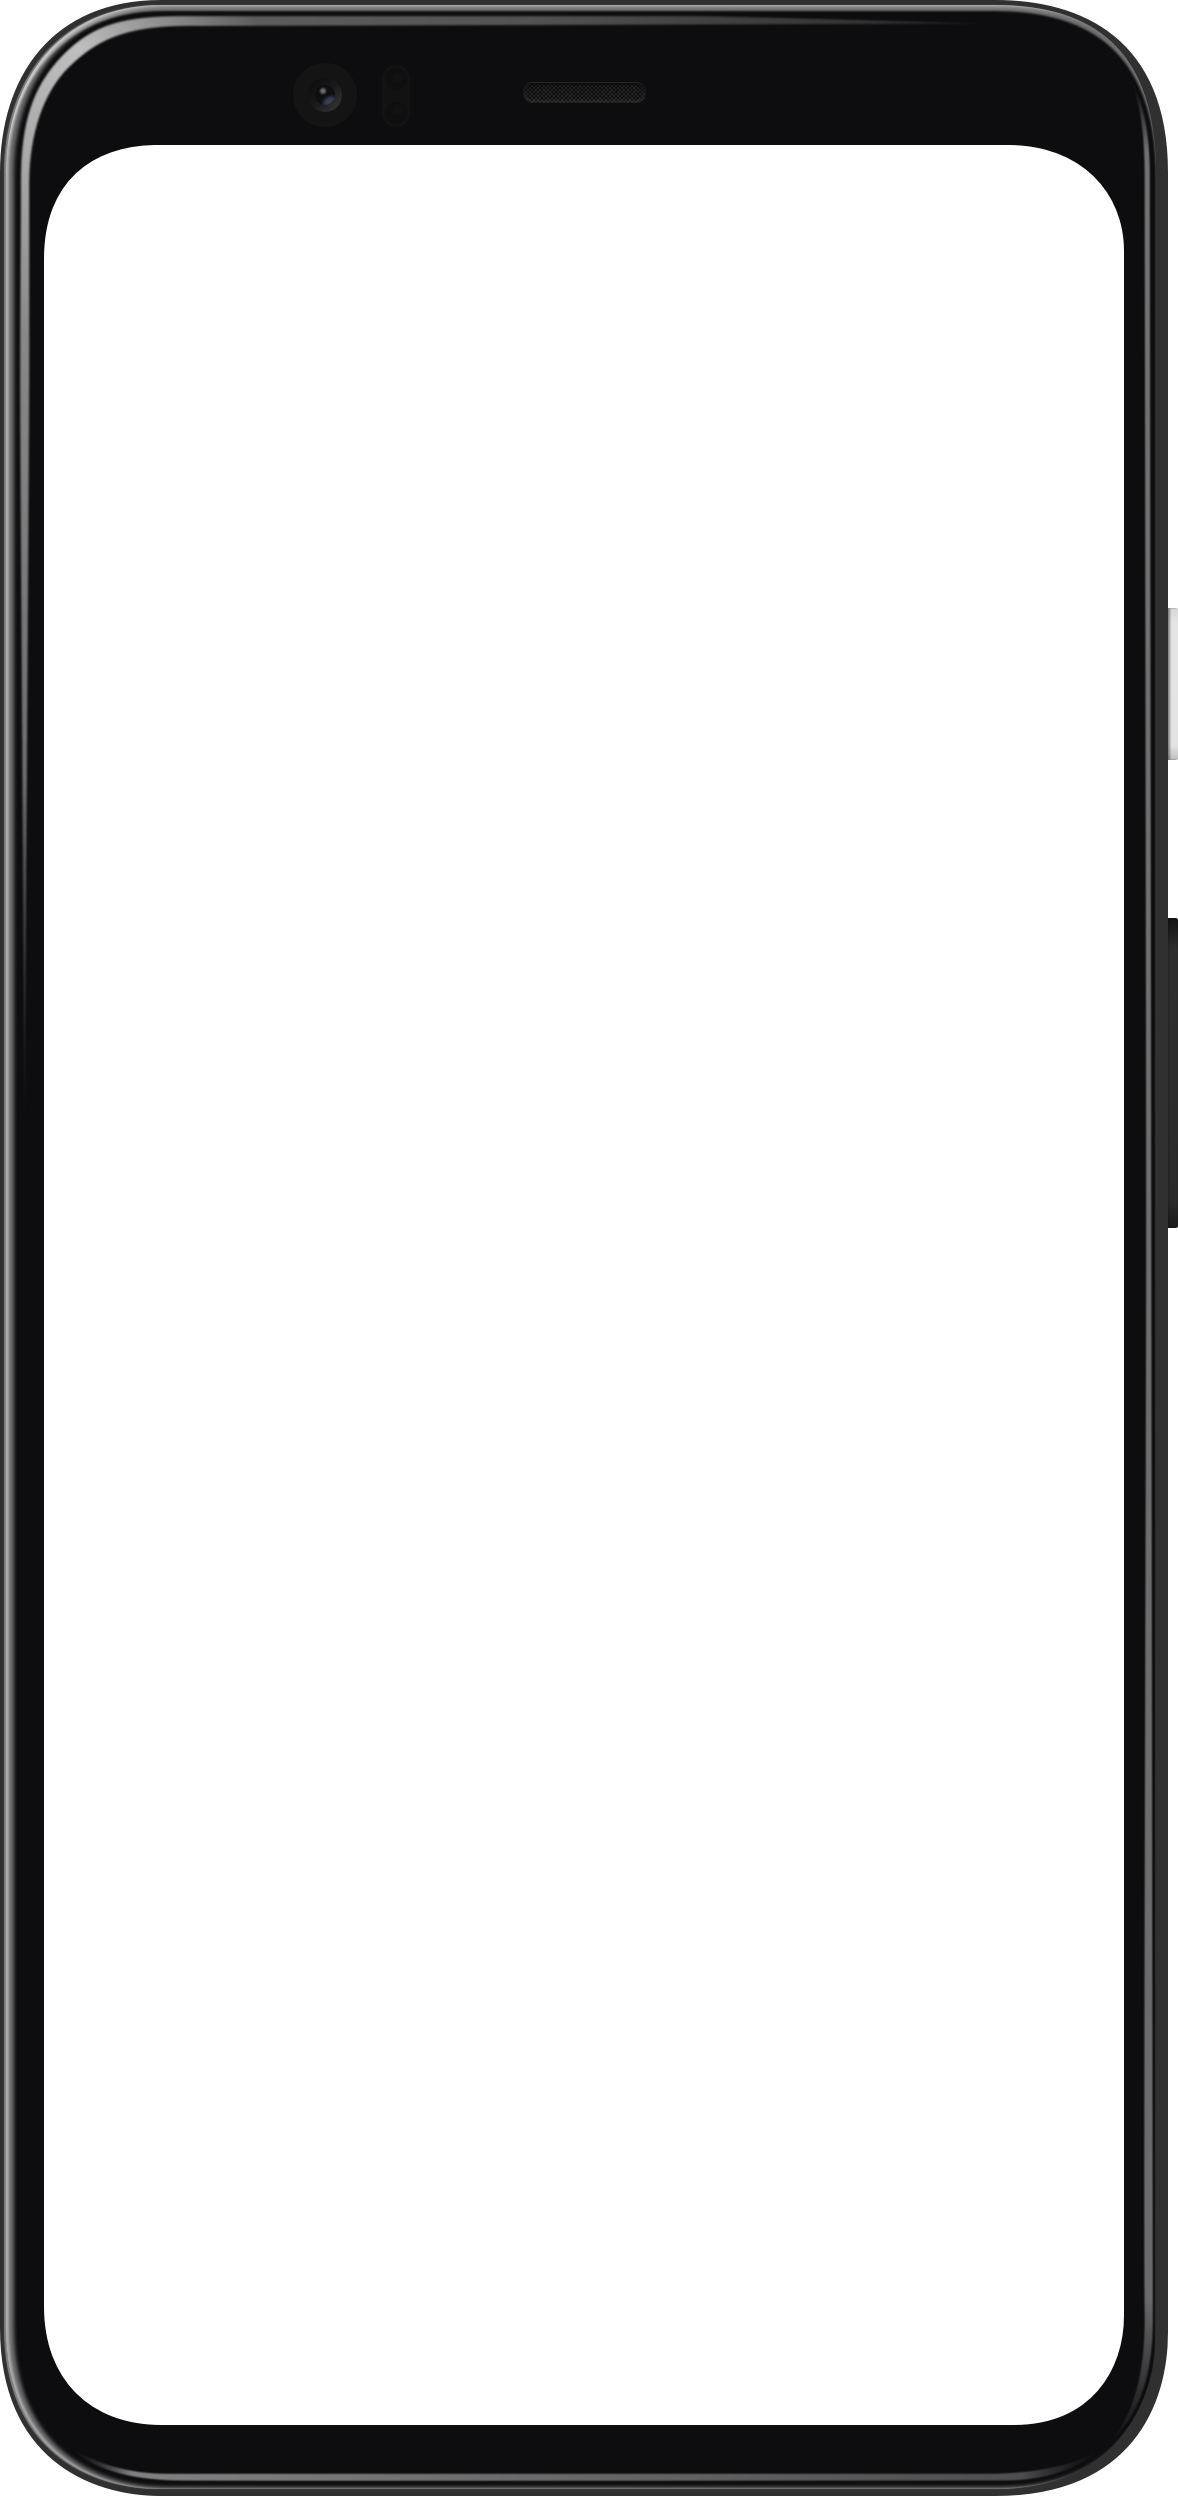
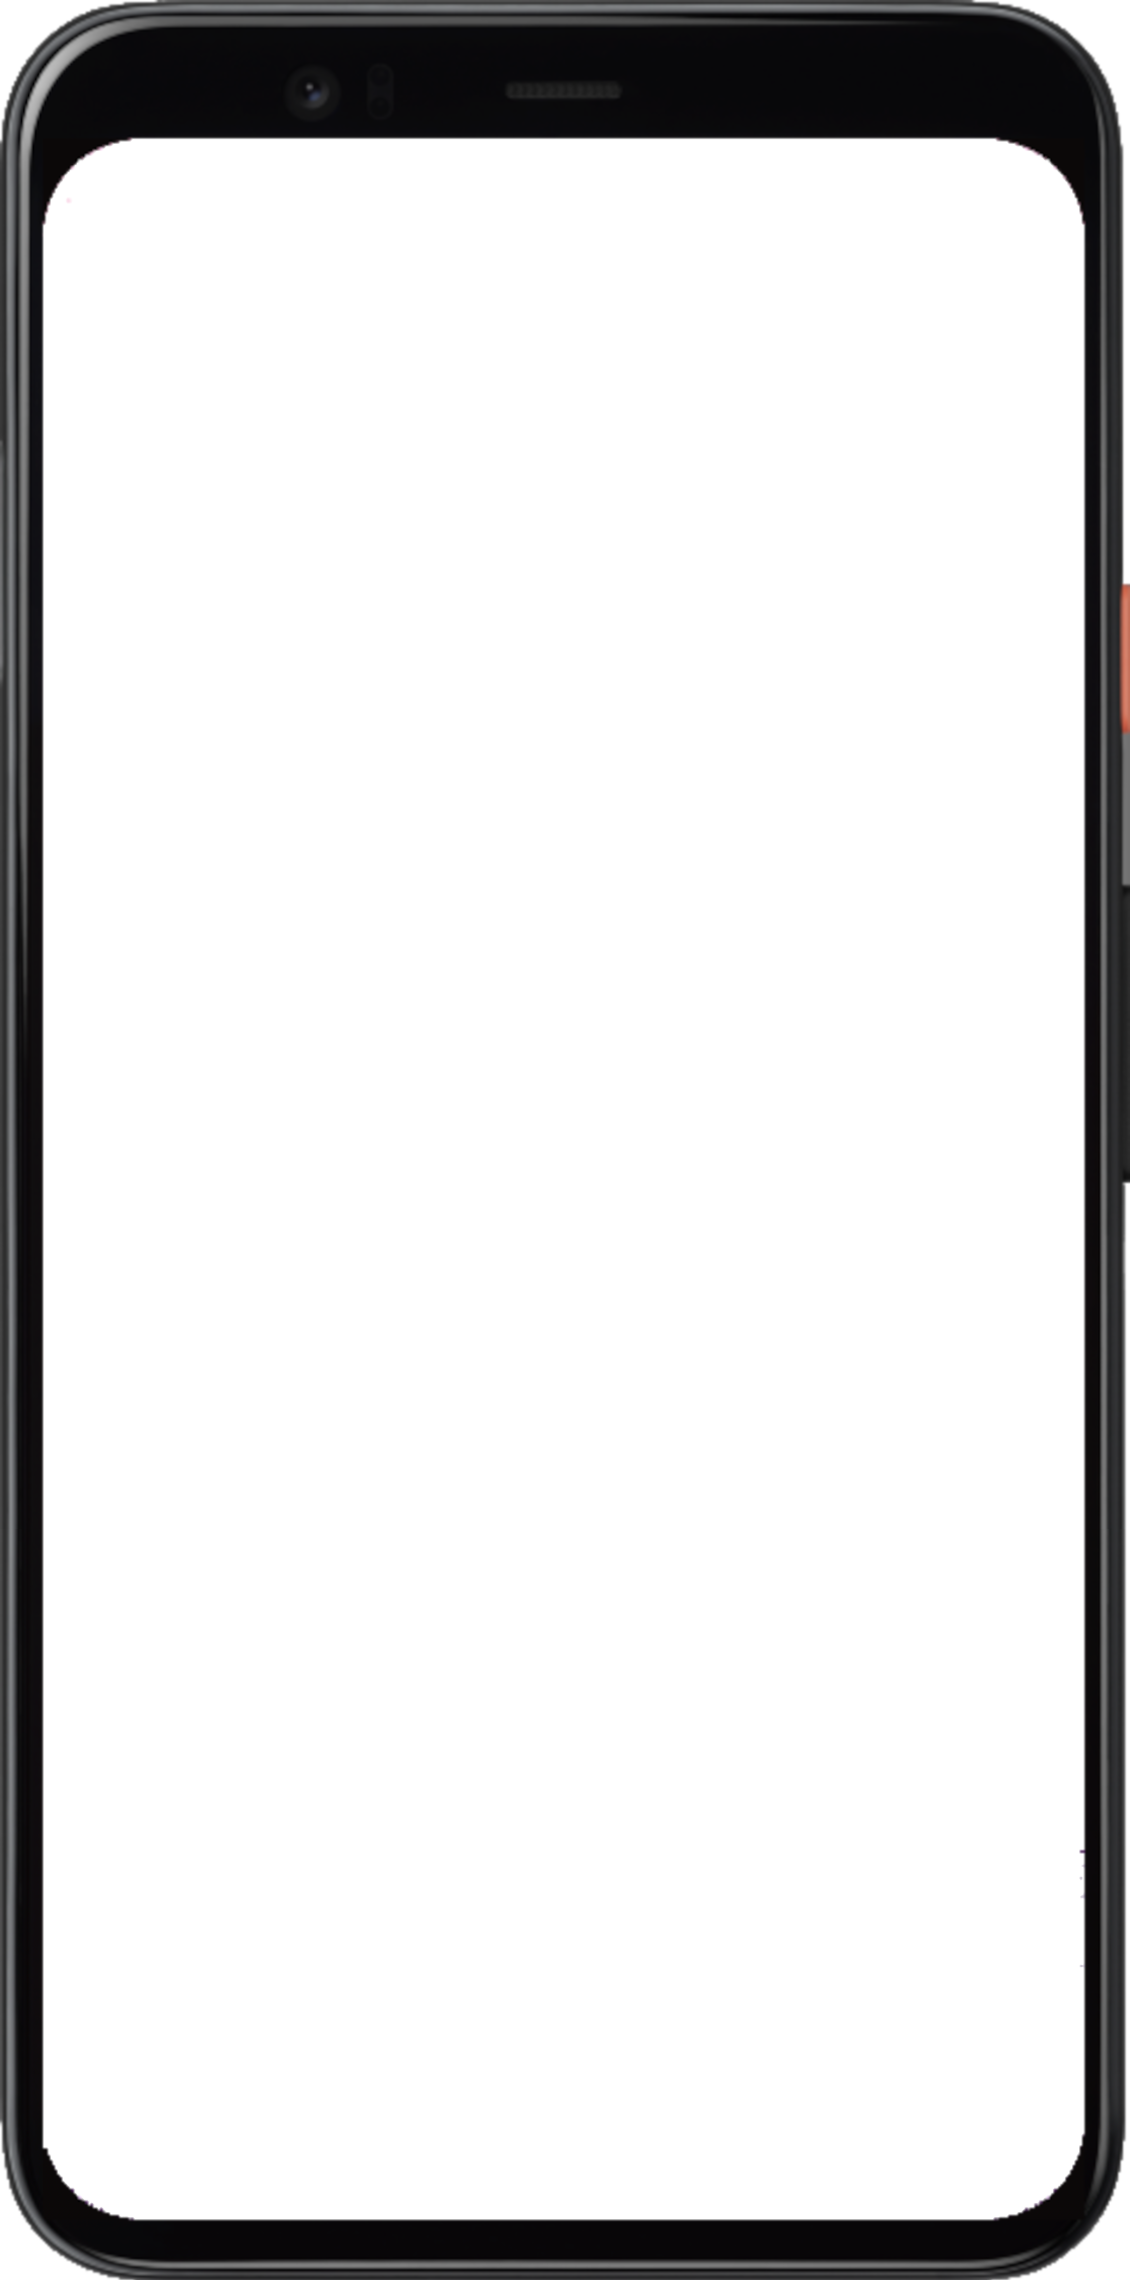
added new docker file(need test) and implemented screenshots in packages/utils

Changed region(s): [[0.0619, 0.0311, 1.0, 1.0], [0.0, 0.0, 0.7434, 0.9654], [0.8363, 0.0, 0.9602, 0.0311]]

diff --git a/test_driver/main_test.dart b/test_driver/main_test.dart
@@ -12,12 +12,23 @@
  * <http://creativecommons.org/publicdomain/zero/1.0/>.
  */
 
+import 'dart:io';
 import 'package:flutter_driver/flutter_driver.dart';
 import 'package:test/test.dart';
-import 'package:screenshots/screenshots.dart';
 
 void main() {
-  final config = Config();
+  // Load environmental variables
+  String imagePrefix = Platform.environment['imagePrefix'] ?? '?';
+  print('=========Results  is $imagePrefix');
+
+  Future<void> takeScreenshot(FlutterDriver driver, String name) async {
+    if (imagePrefix != '?') {
+      final List<int> pixels = await driver.screenshot();
+      final File file = File('$imagePrefix$name.png');
+      await file.writeAsBytes(pixels);
+    }
+  }
+
   group('Admin Home Page test', () {
     late FlutterDriver driver;
 
@@ -29,16 +40,18 @@ void main() {
     tearDownAll(() async {
       driver.close();
     });
+    test('check flutter driver health', () async {
+      Health health = await driver.checkHealth();
+      print("====health status: ${health.status}");
+    });
 
     test('Login button', () async {
-      print("====starting!!!!======");
-      final login = find.byValueKey('loginButton');
-      await driver.tap(login);
-      final login1 = find.byValueKey('login');
-      await driver.tap(login1);
-      await screenshot(driver, config, 'dashboard');
-      final logout = find.byValueKey('logoutButton');
-      await driver.tap(logout);
+      await driver.tap(find.byValueKey('loginButton'));
+      await driver.tap(find.byValueKey('login'));
+      await driver.waitFor(find.byValueKey('DashBoardForm'),
+          timeout: Duration(seconds: 20));
+      await takeScreenshot(driver, 'dashboard');
+      await driver.tap(find.byValueKey('logoutButton'));
     });
   });
 }

diff --git a/lib/main.dart b/lib/main.dart
@@ -27,12 +27,14 @@ import 'package:core/widgets/@widgets.dart';
 import 'router.dart' as router;
 import 'forms/@forms.dart';
 import 'package:core/forms/@forms.dart' as core;
+import 'package:flutter_driver/driver_extension.dart';
 
-void main() async {
+Future main() async {
+  enableFlutterDriverExtension();
   WidgetsFlutterBinding.ensureInitialized();
-  await GlobalConfiguration().loadFromAsset("app_settings");
   Bloc.observer = SimpleBlocObserver();
 
+  await GlobalConfiguration().loadFromAsset("app_settings");
   String backend = GlobalConfiguration().getValue("backend");
   var repos = backend == 'moqui'
       ? Moqui(client: Dio())
@@ -127,7 +129,7 @@ class MyApp extends StatelessWidget {
             defaultScale: true,
             breakpoints: [
               ResponsiveBreakpoint.resize(450, name: MOBILE),
-              ResponsiveBreakpoint.autoScale(1000, name: TABLET),
+              ResponsiveBreakpoint.autoScale(800, name: TABLET),
               ResponsiveBreakpoint.resize(1200, name: DESKTOP),
               ResponsiveBreakpoint.autoScale(2460, name: "4K"),
             ],

diff --git a/android/fastlane/metadata/framed/en-US/_preview.html b/android/fastlane/metadata/framed/en-US/_preview.html
@@ -24,6 +24,6 @@
     </script>
     </head>
     <div><label for="height">Preview Height:</label> <input type="range" min="100" max="2000" value="600" id="height" /></div>
-    <h1>Framed Screenshots</h2><img src="Nexus_9_API_30-landscaperight-dashboard.png" alt="Nexus_9_API_30-landscaperight-dashboard.png" /><img src="Pixel-4-portrait-dashboard.png" alt="Pixel-4-portrait-dashboard.png" />
+    <h1>Framed Screenshots</h2><img src="Nexus_10_API_30-dashboard.png" alt="Nexus_10_API_30-dashboard.png" /><img src="Nexus_7_2012_API_30-dashboard.png" alt="Nexus_7_2012_API_30-dashboard.png" /><img src="Pixel_4_API_30-dashboard.png" alt="Pixel_4_API_30-dashboard.png" />
     <body></body></html>
     

diff --git a/lib/forms/home_form.dart b/lib/forms/home_form.dart
@@ -47,6 +47,7 @@ class _HomeFormState extends State<HomeForm> {
       if (state is AuthAuthenticated) {
         Authenticate authenticate = state.authenticate!;
         return DisplayMenuList(
+          scaffoldMessengerKey: scaffoldMessengerKey,
           menuList: menuItems,
           menuIndex: 0,
           actions: <Widget>[
